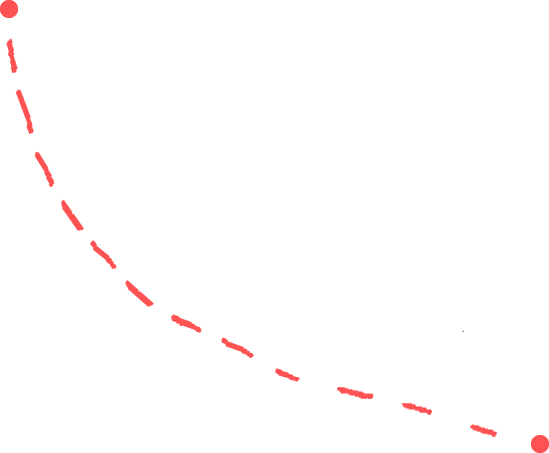
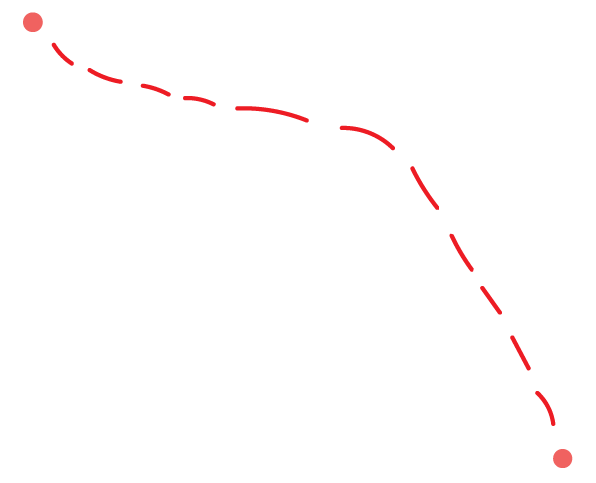
fixed mobile styling and edited the path line

diff --git a/index.html b/index.html
@@ -67,7 +67,6 @@
             <b>Martinborough</b></span></a></div>
       <div id="menu" class="panel">
         <ul>
-          <li><a href="#intro" class="panel panel-intro" data-menu="intro">intro</a></li>
           <li><a href="#ourStory" class="panel panel-essential" data-menu="essential">essential to taste</a></li>
           <li><a href="#whyDali" class="panel panel-super" data-menu="super">super premium</a></li>
           <li><a href="#daliMoment" class="panel panel-dali" data-menu="dali">dali</a></li>
@@ -86,8 +85,13 @@
       <div id="welcome" class="item">
         <div class="content">
           <img src="pics/homepage.png" />
+          <video controls class="video">
+            <source src="videos/Dali-Olives.mp4#t=1" type="video/mp4">
+          </video>
+          <p class="start">
+            <a href="#ourStory" class="panel mobile-start" data-menu="essential">Start The <br>Dali Journey</a>
+          </p>
           <div class="journey">
-            <p><a href="#intro" class="panel" data-menu="intro">Intro</a></p>
             <img src="pics/welcome-ourStory.png" class="ml550" style="margin-top: 10px;" />
             <a href="#welcome" class="panel" data-menu="intro">
               <p style="margin-left: 570px; margin-top: 20px;">back</p>
@@ -98,23 +102,6 @@
       </div>
       <div id="clear"></div>
       <!-- end of welcome panel -->
-
-      <!-- intro panel -->
-      <div id="intro" class="item">
-        <div class="content" style="text-align: center;">
-          <video controls style="height: 100%;">
-            <source src="videos/Dali-Olives.mp4" type="video/mp4">
-          </video>
-          <p class="start desktop-hide">
-            <a href="#ourStory" class="panel mobile-start" data-menu="essential">Start The <br>Dali Journey</a>
-          </p>
-          <p style="color: #FF5252;"><a href="#ourStory" class="panel" data-menu="essential">Start The<br>Dali
-              Journey</a></p>
-
-        </div>
-      </div>
-      <div id="clear"></div>
-      <!-- end of intro panel -->
 
       <!-- start of ourStory panel -->
       <div id="ourStory" class="item">

diff --git a/scripts/style.css b/scripts/style.css
@@ -121,6 +121,14 @@ b {font-weight: bold;}
 	display: block;
 }
 
+video.video {
+    position: absolute;
+    width: 35%;
+    left: 100%;
+	top: 50%;
+	z-index: 2;
+}
+
 @media (max-width: 736px) {
 	.award-container img.awardwinning {
 		display: none;
@@ -167,11 +175,17 @@ b {font-weight: bold;}
 	#welcome .content img{
 	    width: calc(100% - 40px);
 	    left: 65px;
-	    top: 40%;
+	    top: 14%;
 	    position: absolute;
 	    transform: translateY(-50%);
 	}
-
+	video.video {
+		position: absolute;
+		width: calc(100% - 130px);
+		left: 115px;
+		bottom: 12%;
+		top: unset;
+	}
 	.content {
 	    width: 100vw;
 	    height: 100vh;
@@ -230,8 +244,9 @@ b {font-weight: bold;}
 		padding-left: 0;
 		margin-top: 0;
 		position: absolute;
-	    bottom: 25%;
-	    left: 50%;
+	    bottom: 5%;
+		left: 50%;
+		margin-bottom: 0;
 	}
 
 	.bx-wrapper .bx-pager {
@@ -269,7 +284,7 @@ b {font-weight: bold;}
 		height: 10px;
 		background-color: #E42313;
 		border-radius: 50px;
-		top: calc(100% + 10px);
+		top: calc(100% + 2px);
 	    left: 50%;
 	}
 }
